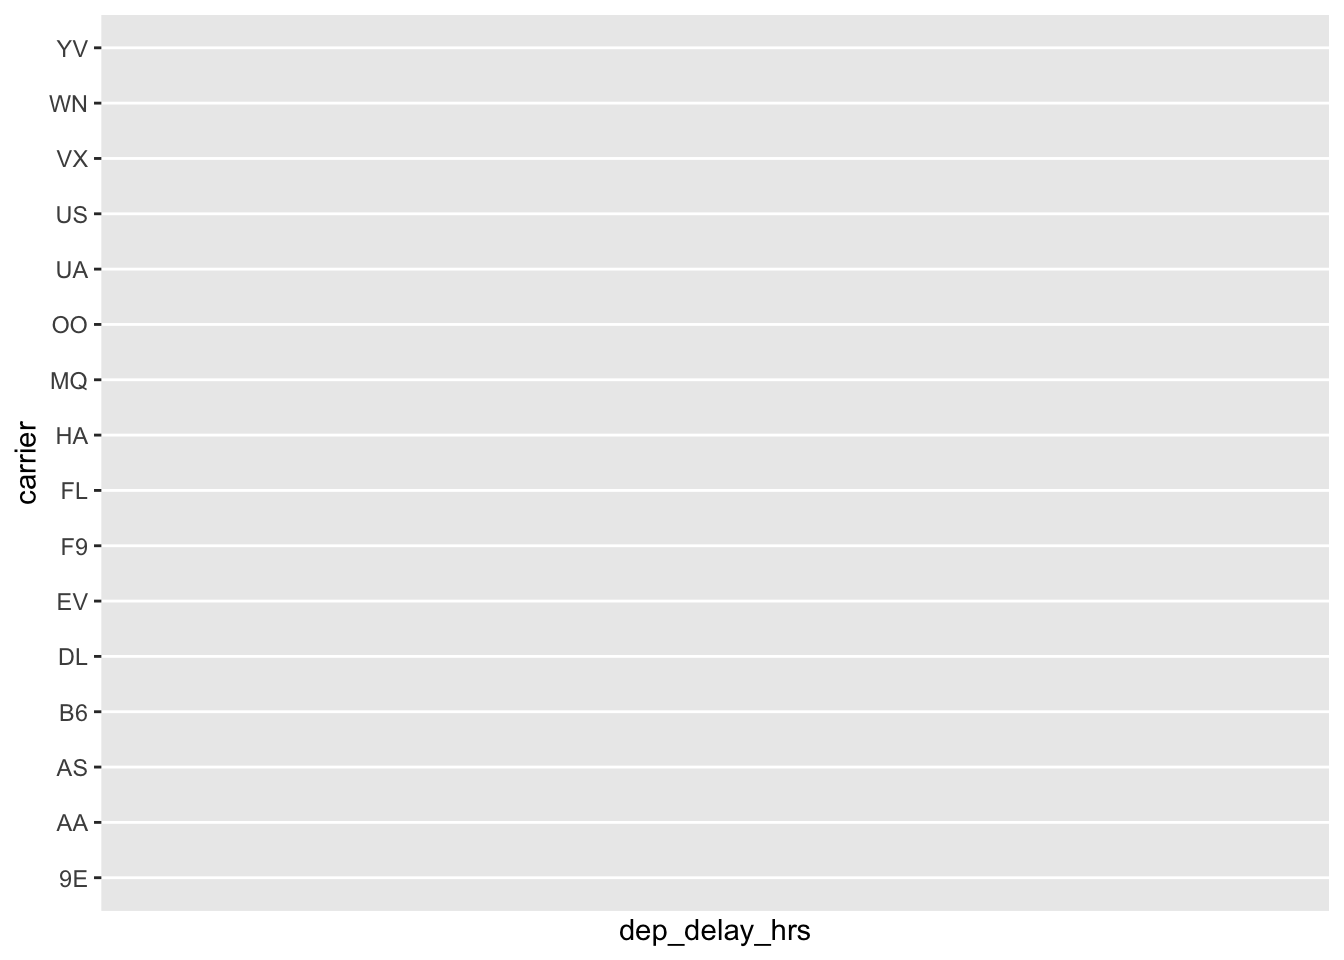
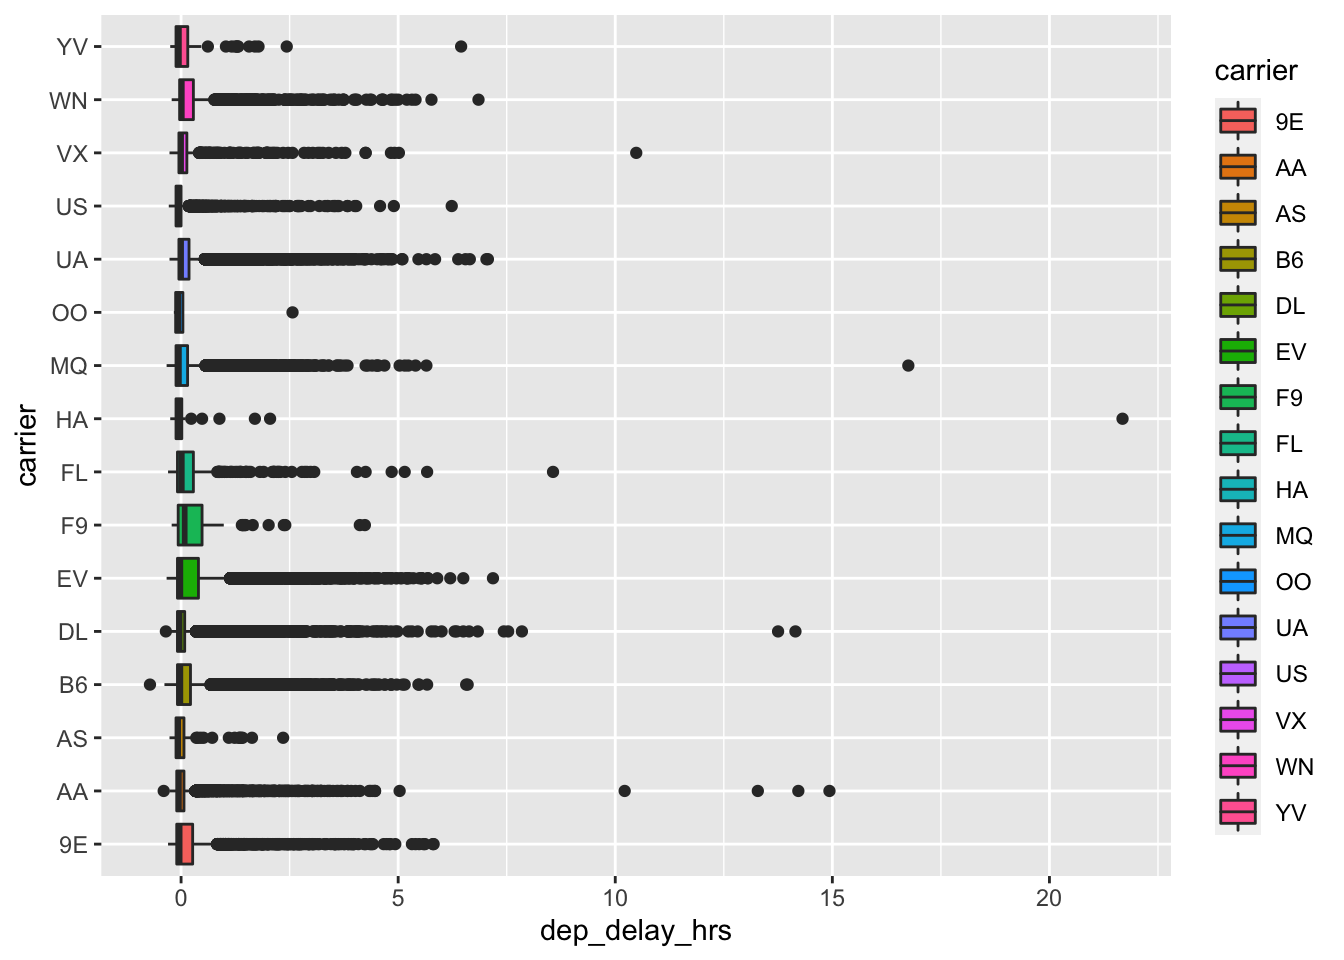
boxplot error fixed?

diff --git a/docs/assignments.html b/docs/assignments.html
@@ -987,8 +987,7 @@ mloa2 %&gt;%
 <li>Make a function that can: (1) convert hours to minutes; and (2) convert minutes to hours (i.e., it’s going to require some sort of conditional setting in the function that determines which direction the conversion is going). Use this function to convert departure delay (currently in minutes) to hours and then generate a boxplot of departure delay times by carrier. Save this function into a script called “customFunctions.R” in your scripts/code folder.</li>
 <li>Below is the plot we generated from the new data in Q4. (Base code: <code>ggplot(df, aes(x = dep_delay_hrs, y = carrier, fill = carrier)) +   geom_boxplot()</code>). The goal is to visualize delays by carrier. Do (at least) 5 things to improve this plot by changing, adding, or subtracting to this plot. The sky’s the limit here, remember we often reduce data to more succinctly communicate things.</li>
 </ol>
-<pre><code>## Warning: Computation failed in `stat_boxplot()`:
-## missing values and NaN&#39;s not allowed if &#39;na.rm&#39; is FALSE</code></pre>
+<pre><code>## Warning: Removed 1228 rows containing non-finite values (stat_boxplot).</code></pre>
 <p><img src="assignments_files/figure-html/unnamed-chunk-15-1.png" width="672" /></p>
 </div>
 </div>
